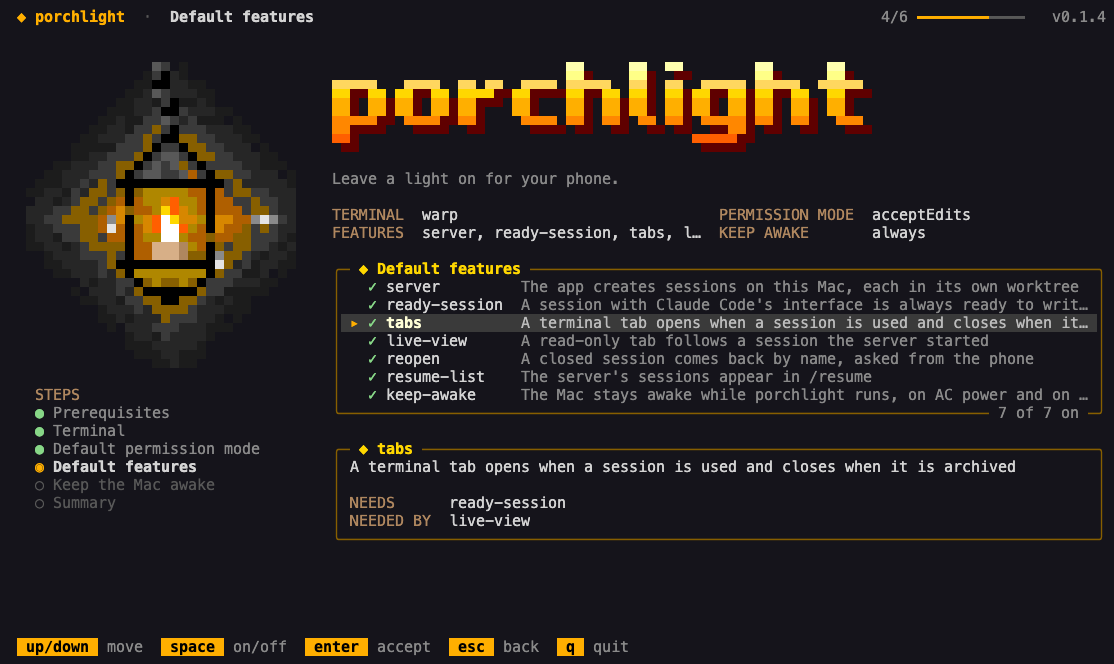
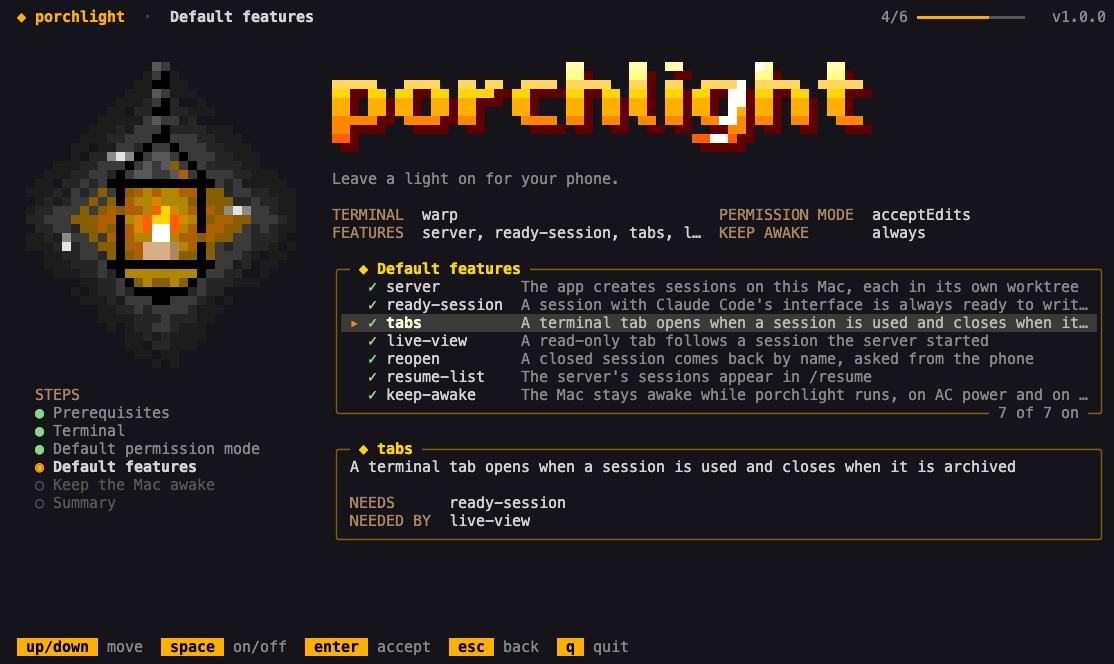
chore(release): 1.0.0

diff --git a/porchlight/__init__.py b/porchlight/__init__.py
@@ -1,3 +1,3 @@
 """Sessions of Claude Code on a Mac, driven from the Claude mobile app."""
 
-__version__ = "0.1.5"
+__version__ = "1.0.0"

diff --git a/CHANGELOG.md b/CHANGELOG.md
@@ -5,6 +5,41 @@ major version is 0, a minor release may change commands or the configuration fil
 
 ## [Unreleased]
 
+## [1.0.0] - 2026-11-25
+
+The first stable release: from here on, what the README's
+[Compatibility](README.md#compatibility) section lists changes only in a major release.
+
+### Added
+
+- `status`, `doctor` and the project's log say when a ready session waits for you to trust
+  its folder (Claude Code's workspace trust question), with the command that attaches to it.
+- `doctor` reports Claude Code's version: a problem below 2.1.92, a recommendation below
+  2.1.327.
+- The compatibility promise in the README, a contributing guide, a security policy with
+  private reporting, and a bug report template.
+- A check that installs porchlight from the tap on a clean Mac.
+
+### Changed
+
+- A finished worktree is kept when a file `.worktreeinclude` lists was changed in it.
+- `uninstall --purge` also removes the logs of projects no longer linked, and says what it
+  keeps; `deinit` says that the waiting session's worktree is removed.
+- A `base` that starts with `-` is refused.
+
+### Security
+
+- Text that comes from a session (titles, first prompts, app session ids, the model's
+  output in the live view) is printed and logged without control characters, so it cannot
+  move the cursor, change the terminal's title or clipboard, or hide lines.
+- Half of an emoji in a title or prompt can no longer stop the state from being saved,
+  which made porchlight start a new session at every pass.
+- tmux receives a session's folder literally, so a folder with `#` in its name starts the
+  session in the right place; the printed attach and `resume-list` commands are quoted.
+- A copy of porchlight run from a clone uses `python -P`, so a project's own modules are not
+  imported in its place.
+- Warp tab files stay valid whatever a session's title holds.
+
 ## [0.1.5] - 2026-11-25
 
 ### Added
@@ -73,7 +108,8 @@ and close with the phone's sessions, closed sessions reopened by name, the Remot
 server's sessions followed and listed in `/resume`, keep-awake, and `setup`, `init`,
 `deinit`, `apply`, `status`, `doctor`, `reopen`, `view`, `start`, `stop` and `uninstall`.
 
-[Unreleased]: https://github.com/alejandrovdev/porchlight/compare/v0.1.5...HEAD
+[Unreleased]: https://github.com/alejandrovdev/porchlight/compare/v1.0.0...HEAD
+[1.0.0]: https://github.com/alejandrovdev/porchlight/compare/v0.1.5...v1.0.0
 [0.1.5]: https://github.com/alejandrovdev/porchlight/compare/v0.1.4...v0.1.5
 [0.1.4]: https://github.com/alejandrovdev/porchlight/compare/v0.1.3...v0.1.4
 [0.1.3]: https://github.com/alejandrovdev/porchlight/compare/v0.1.2...v0.1.3

diff --git a/README.md b/README.md
@@ -3,9 +3,8 @@
 Leave a light on for your phone: porchlight keeps Claude Code sessions ready on your Mac so
 you can start, follow and close them from the Claude mobile app.
 
-> **Status: early.** porchlight works and is used every day, but while its version starts
-> with 0, commands and the configuration file may still change between minor releases (see
-> the [changelog](CHANGELOG.md)).
+> **Status: stable.** From 1.0.0, what [Compatibility](#compatibility) lists changes only
+> in a major release; the [changelog](CHANGELOG.md) says what each release brings.
 
 ![porchlight setup: the lantern, the steps, the features panel and the details of the option under the cursor](docs/images/setup.png)
 
